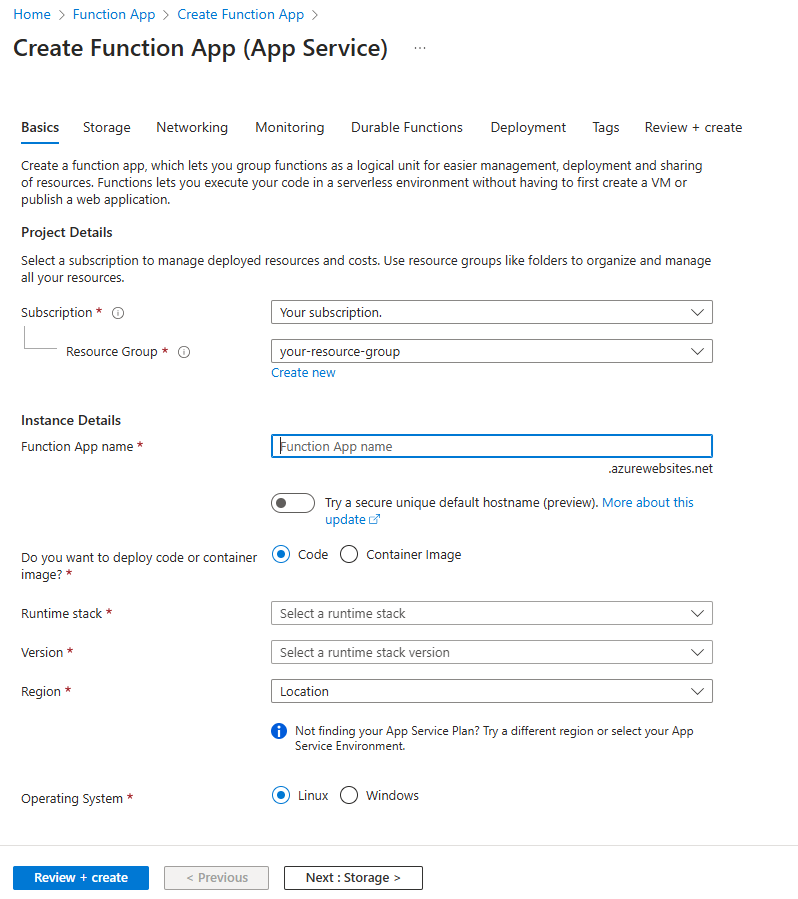
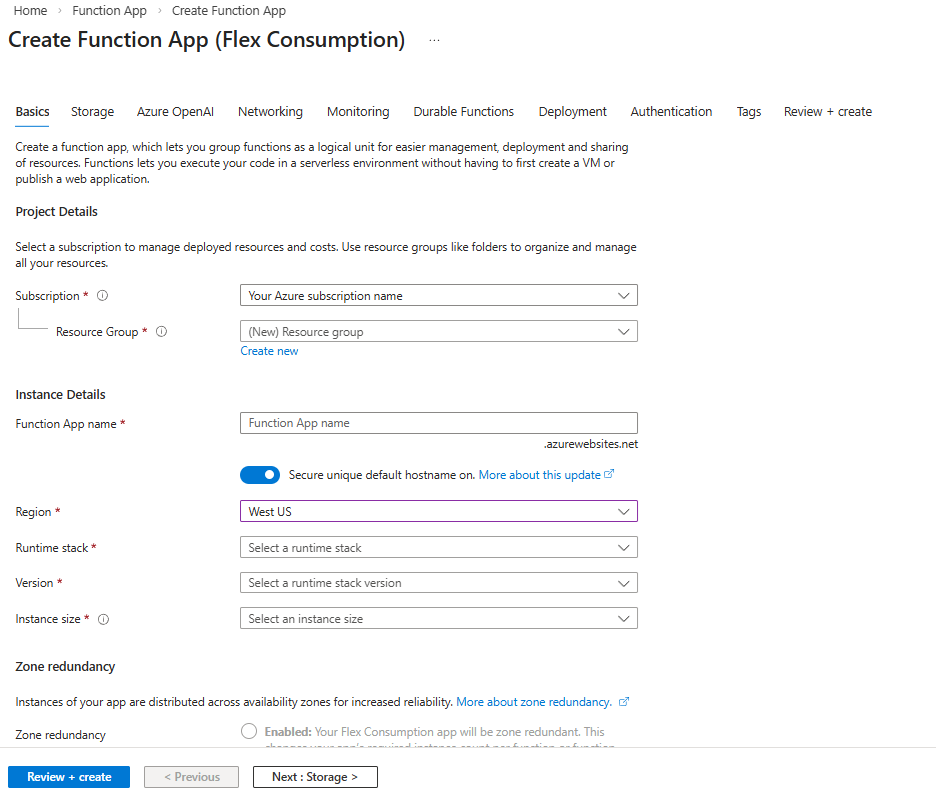
update screenshots that still say app service

diff --git a/articles/azure-functions/durable/durable-task-scheduler/includes/function-app-integrated-creation.md b/articles/azure-functions/durable/durable-task-scheduler/includes/function-app-integrated-creation.md
@@ -19,10 +19,11 @@ ms.date: 03/19/2025
    | Resource Group | Select an existing resource group or click **Create new** to create a new one. | 
    | Function App name | Create a unique name for your function app. | 
    | Do you want to deploy code or container image? | Keep the **Code** option selected. | 
+   | Region | Select [one of the supported regions](../durable-task-scheduler.md#limitations-and-considerations). | 
    | Runtime stack | Select the runtime you're using for this quickstart. | 
    | Version | Select your runtime stack version. | 
-   | Region | Select [one of the supported regions](../durable-task-scheduler.md#limitations-and-considerations). | 
-   | Operating System | Select your operating system. | 
+   | Instance size | Select an instance size, or use the default selection. [Learn more about instance sizes.](../../../flex-consumption-plan.md#instance-sizes) | 
+   | Zone Redundancy | Leave as the default **Disabled** setting. | 
 
 1. Select the **Durable Functions** tab. 
 
